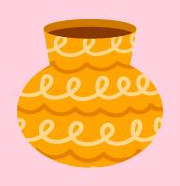
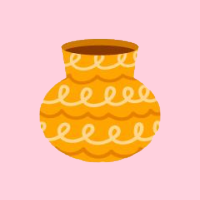
css

diff --git a/src/components/Juego_Objetos/Objetos.js b/src/components/Juego_Objetos/Objetos.js
@@ -72,14 +72,14 @@ function Objetos() {
   userEmail = userEmail.split("-").toString();
   userEmail = userEmail.split("_").toString();
 
-  const puntosRef = useDatabase().ref(dataBaseKey).child('puntosObjetos');
+  const puntosRef = useDatabase().ref(dataBaseKey).child("puntosObjetos");
 
   const obtenerPuntos = () => {
-    puntosRef.on('value', puntaje => {
+    puntosRef.on("value", (puntaje) => {
       if (puntaje != null) {
-        setPuntos(puntaje.val())
+        setPuntos(puntaje.val());
       }
-    })
+    });
   };
 
   const sumarPuntos = () => {
@@ -97,22 +97,22 @@ function Objetos() {
         title: "Oh no... :(",
         text: "Has perdido todas tus vidas\n¿Te gustaria intentarlo de nuevo?",
         icon: "error",
-        buttons: ["No", "Si"]
-      }).then(respuesta => {
+        buttons: ["No", "Si"],
+      }).then((respuesta) => {
         if (respuesta) {
           swal({
             title: "Aquí vamos de nuevo :)",
-            timer: "3000"
-          })
+            timer: "3000",
+          });
           window.location.reload();
         } else {
           swal({
             title: "Has regresado a la pantalla de inicio",
-            timer: "2000"
-          })
+            timer: "2000",
+          });
           handleNav();
         }
-      })
+      });
     } else {
       swal({
         content: <div>Ups! Intenta de nuevo</div>,
@@ -120,11 +120,9 @@ function Objetos() {
         value: false,
       });
     }
-  }
+  };
 
-  useEffect(
-    obtenerPuntos
-  )
+  useEffect(obtenerPuntos);
 
   const contarFuncion = (index) => {
     if (data.presionar[aux].respuestas[index].correcto) {
@@ -152,7 +150,7 @@ function Objetos() {
           ) : data?.presionar?.length > aux ? (
             <div>
               <div className="puntuacion text-center flex my-4 justify-center">
-                <h3 className="mr-10 pt-4">  Puntos: {puntos} </h3>
+                <h3 className="mr-10 pt-4"> Puntos: {puntos} </h3>
                 <div className="flex my-4 justify-center" name="divVidas">
                   <h3 className="mr-3"> Vidas: </h3>
                   <a className="flex h-12 w-12 mr-5" id="vida1">
@@ -169,12 +167,12 @@ function Objetos() {
               <div className="recolectar w-full text-center mb-10">
                 <h2>{data.presionar[aux].pregunta}</h2>
                 <div className="pregunta flex justify-center">
-                  <img src={IMGS[data.presionar[aux].img]} className="w-60" />
+                  <img src={IMGS[data.presionar[aux].img]} className="w-vh" />
                 </div>
-                <div className="flex justify-evenly">
+                <div className="flex justify-center gap-4">
                   {data.presionar[aux].respuestas.map((r, index) => (
                     <div
-                      className="objetos p-3 shadow-2xl shadow-2xl transition duration-500 ease-in-out transform hover:-translate-y-1 hover:scale-110"
+                      className="p-3 shadow-2xl shadow-2xl transition duration-500 ease-in-out transform hover:-translate-y-1 hover:scale-110"
                       onClick={() => contarFuncion(index)}
                       key={index}
                     >

diff --git a/src/components/Juegos/Contar/Contar.js b/src/components/Juegos/Contar/Contar.js
@@ -51,14 +51,14 @@ const Contar = () => {
   userEmail = userEmail.split("-").toString();
   userEmail = userEmail.split("_").toString();
 
-  const puntosRef = useDatabase().ref(dataBaseKey).child('puntosContar');
+  const puntosRef = useDatabase().ref(dataBaseKey).child("puntosContar");
 
   const obtenerPuntos = () => {
-    puntosRef.on('value', puntaje => {
+    puntosRef.on("value", (puntaje) => {
       if (puntaje != null) {
-        setPuntos(puntaje.val())
+        setPuntos(puntaje.val());
       }
-    })
+    });
   };
 
   const sumarPuntos = () => {
@@ -76,22 +76,22 @@ const Contar = () => {
         title: "Oh no... :(",
         text: "Has perdido todas tus vidas\n¿Te gustaria intentarlo de nuevo?",
         icon: "error",
-        buttons: ["No", "Si"]
-      }).then(respuesta => {
+        buttons: ["No", "Si"],
+      }).then((respuesta) => {
         if (respuesta) {
           swal({
             title: "Aquí vamos de nuevo :)",
-            timer: "3000"
-          })
+            timer: "3000",
+          });
           window.location.reload();
         } else {
           swal({
             title: "Has regresado a la pantalla de inicio",
-            timer: "2000"
-          })
+            timer: "2000",
+          });
           handleNav();
         }
-      })
+      });
     } else {
       swal({
         content: <div>Ups! Intenta de nuevo</div>,
@@ -99,7 +99,7 @@ const Contar = () => {
         value: false,
       });
     }
-  }
+  };
 
   const contarFuncion = (value) => {
     if (value === data?.preguntas[aux]?.respuesta || aux === 3 || aux == 20) {
@@ -162,7 +162,7 @@ const Contar = () => {
         ) : data.preguntas.length > aux ? (
           <div>
             <div className="puntuacion text-center flex my-4 justify-center">
-              <h3 className="mr-10 pt-4">  Puntos: {puntos} </h3>
+              <h3 className="mr-10 pt-4"> Puntos: {puntos} </h3>
               <div className="flex my-4 justify-center" name="divVidas">
                 <h3 className="mr-3"> Vidas: </h3>
                 <a className="flex h-12 w-12 mr-5" id="vida1">

diff --git a/src/components/Juego_Objetos/objetos.css b/src/components/Juego_Objetos/objetos.css
@@ -42,3 +42,7 @@
 .memo-block-front {
   background-color: #84dccf;
 }
+.w-vh {
+  width: auto;
+  height: 55vh;
+}
